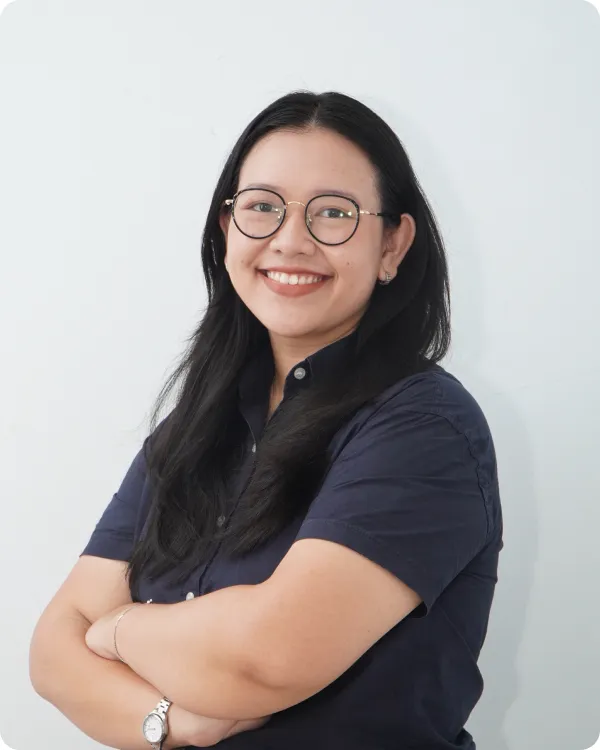
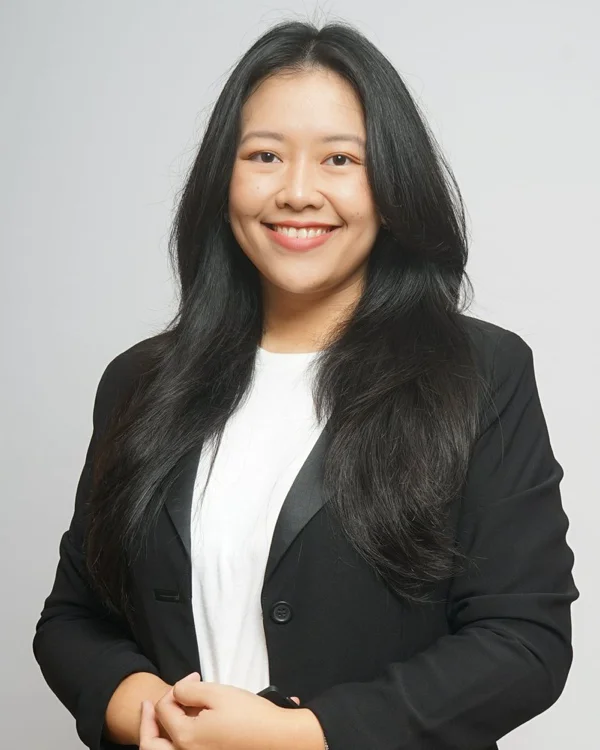
fix(landing): resolve mobile carousel text overflow and update Jessica photo

diff --git a/apps/web/src/components/landing/FeaturedPsychologists.tsx b/apps/web/src/components/landing/FeaturedPsychologists.tsx
@@ -136,7 +136,7 @@ export function FeaturedPsychologists() {
           {roster.length > 0 && selected && (
             <div>
               <Carousel
-                className="w-full"
+                className="w-full min-w-0"
                 opts={{ align: 'center', loop: true }}
                 setApi={setApi}
               >
@@ -145,8 +145,8 @@ export function FeaturedPsychologists() {
                     const focalPosition = 'object-[center_12%]'
 
                     return (
-                      <CarouselItem className="basis-full pl-0" key={psychologist.slug}>
-                        <div className="grid items-stretch gap-8 overflow-hidden rounded-3xl border border-secondary/10 bg-[#faf6ef] p-6 sm:p-10 lg:grid-cols-[0.85fr_1.15fr] lg:gap-12 lg:p-12 shadow-xs">
+                      <CarouselItem className="basis-full min-w-0 pl-0" key={psychologist.slug}>
+                        <div className="grid w-full min-w-0 items-stretch gap-8 overflow-hidden rounded-3xl border border-secondary/10 bg-[#faf6ef] p-6 sm:p-10 lg:grid-cols-[0.85fr_1.15fr] lg:gap-12 lg:p-12 shadow-xs">
                           {/* Photo Column */}
                           <div className="relative mx-auto aspect-[4/5] w-full max-w-[260px] sm:max-w-sm overflow-hidden rounded-t-[2.5rem] rounded-b-2xl bg-[#eee8df] shadow-sm lg:mx-0">
                             <img
@@ -161,29 +161,29 @@ export function FeaturedPsychologists() {
                           </div>
 
                         {/* Details Column */}
-                        <div className="flex flex-col justify-center">
+                        <div className="flex w-full min-w-0 flex-col justify-center">
                           <p className="text-xs font-bold uppercase tracking-[0.16em] text-[#946a22]">
                             {t(`routes.psychologists.cards.supportArea.${psychologist.supportArea}`)}
                           </p>
-                          <h3 className="mt-3 text-3xl font-bold tracking-tight text-secondary sm:text-4xl">
+                          <h3 className="mt-3 text-2xl font-bold tracking-tight text-secondary sm:text-3xl lg:text-4xl break-words">
                             {psychologist.name}
                           </h3>
-                          <p className="mt-2 text-base font-semibold text-secondary">{psychologist.credential}</p>
+                          <p className="mt-2 text-base font-semibold text-secondary break-words">{psychologist.credential}</p>
                           {psychologist.shortBio && (
-                            <p className="mt-4 text-sm sm:text-base leading-relaxed font-[450] text-secondary line-clamp-3">
+                            <p className="mt-4 text-sm sm:text-base leading-relaxed font-[450] text-secondary line-clamp-3 break-words">
                               {psychologist.shortBio}
                             </p>
                           )}
 
                           {/* Trust Badges */}
-                          <div className="mt-6 grid gap-3 text-sm font-medium text-secondary sm:grid-cols-2">
-                            <div className="flex items-center gap-2">
+                          <div className="mt-6 grid w-full min-w-0 gap-3 text-sm font-medium text-secondary sm:grid-cols-2">
+                            <div className="flex min-w-0 items-center gap-2">
                               <Clock3 aria-hidden="true" className="shrink-0 text-[#946a22]" size={18} />
-                              <span className="font-semibold">{t('routes.psychologists.cards.experience', { count: psychologist.experienceYears })}</span>
+                              <span className="font-semibold break-words">{t('routes.psychologists.cards.experience', { count: psychologist.experienceYears })}</span>
                             </div>
-                            <div className="flex items-center gap-2">
-                              <BadgeCheck aria-hidden="true" className="shrink-0 text-[#946a22]" size={18} />
-                              <span className="truncate">
+                            <div className="flex min-w-0 items-start gap-2">
+                              <BadgeCheck aria-hidden="true" className="mt-0.5 shrink-0 text-[#946a22]" size={18} />
+                              <span className="min-w-0 break-words leading-snug">
                                 <span className="font-bold text-secondary">{t('routes.profile.licenseLabel')}:</span>{' '}
                                 {psychologist.licenseNumber ?? t('homepage.featured.licenseUnavailable')}
                               </span>
@@ -191,14 +191,14 @@ export function FeaturedPsychologists() {
                           </div>
 
                           {/* Specializations */}
-                          <div className="mt-6">
+                          <div className="mt-6 w-full min-w-0">
                             <p className="text-xs font-bold uppercase tracking-[0.14em] text-secondary">
                               {t('homepage.featured.specializationsLabel')}
                             </p>
                             <div className="mt-3 flex flex-wrap gap-2">
                               {psychologist.specializations.slice(0, 5).map((specialization) => (
                                 <span
-                                  className="rounded-full border border-primary/30 bg-white/80 px-3.5 py-1.5 text-xs font-semibold text-secondary shadow-2xs"
+                                  className="rounded-full border border-primary/30 bg-white/80 px-3.5 py-1.5 text-xs font-semibold text-secondary shadow-2xs break-words"
                                   key={specialization}
                                 >
                                   {specialization}
